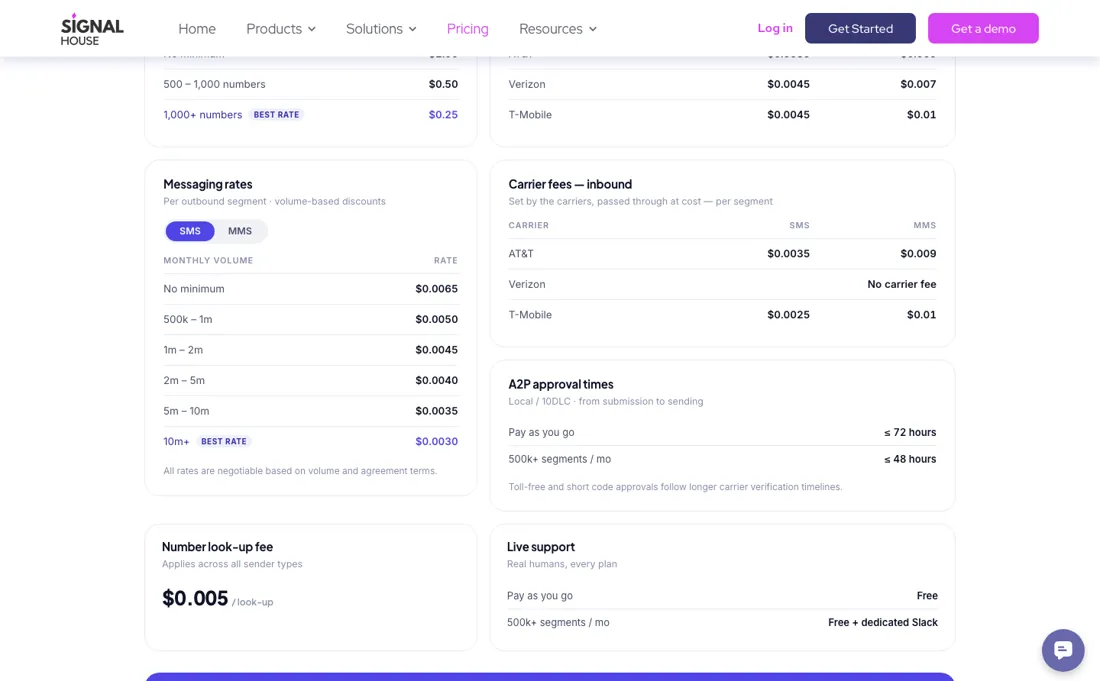
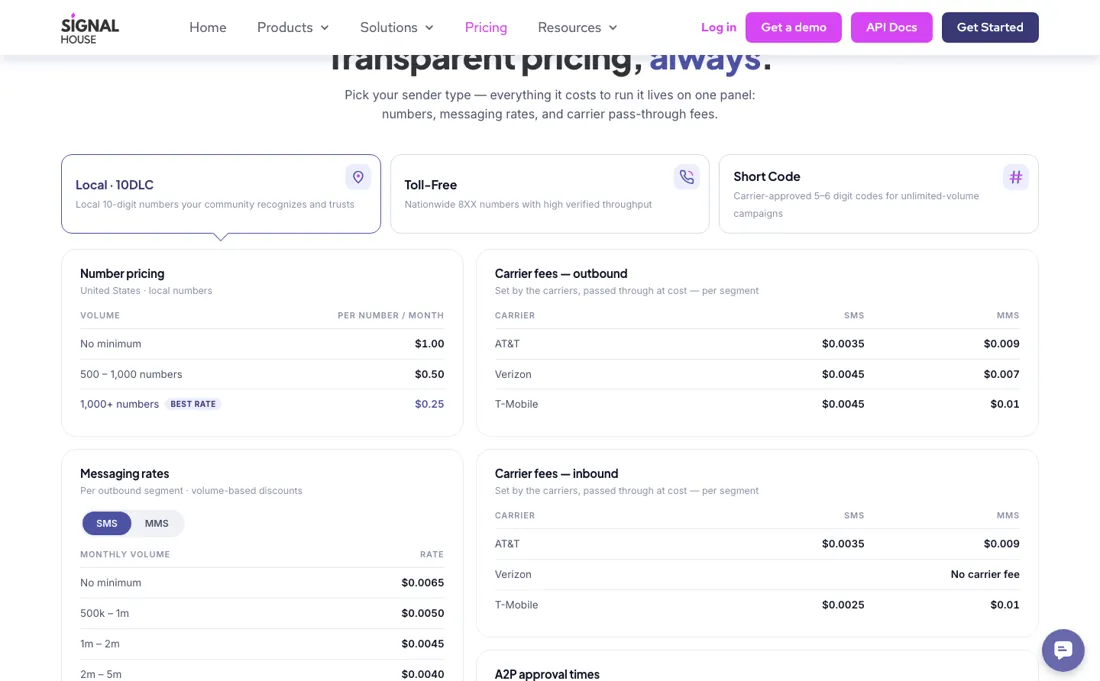
Daily sister refresh 2026-09-22: cards, blocks, nav, footer, links, sitemap

diff --git a/signal-house-review.html b/signal-house-review.html
@@ -123,7 +123,7 @@ nav.znav{display:block;padding:0;margin:0;height:auto;border:0;position:sticky;t
 @media(max-width:720px){.znav .in{height:54px;padding:0 14px;gap:12px}.znav .merk{font-size:1rem}
  .znav .links a{padding:7px 8px;font-size:.8rem}.znav .links a.cta{display:none}}
 </style><div class="in"><a class="merk" href="/"><i></i>ZeroTouch <em>Support</em></a><div class="links"><a href="/deals.html">Deals</a><a href="/guides.html">Guides</a><a href="/build-customer-support-system.html">Build a support system</a><a href="/tools/">Free tools</a><a href="/atlas.html">Atlas</a><a href="/price-watch.html">Price Watch</a><a href="/about.html">About</a><a href="/finder.html" class="cta">Tool Finder</a></div></div></nav>
-<script type="application/ld+json">{"@context": "https://schema.org", "@type": "Article", "headline": "Signal House Review (2026): 500 Numbers Cost Less Than 499", "datePublished": "2026-06-30", "dateModified": "2026-09-21", "author": {"@type": "Person", "@id": "https://aibuildermarketplace.com/about/#daan", "name": "Daniel Haket"}, "publisher": {"@type": "Organization", "name": "ZeroTouch Support"}}</script>
+<script type="application/ld+json">{"@context": "https://schema.org", "@type": "Article", "headline": "Signal House Review (2026): 500 Numbers Cost Less Than 499", "datePublished": "2026-06-30", "dateModified": "2026-09-22", "author": {"@type": "Person", "@id": "https://aibuildermarketplace.com/about/#daan", "name": "Daniel Haket"}, "publisher": {"@type": "Organization", "name": "ZeroTouch Support"}}</script>
 <script type="application/ld+json">{"@context": "https://schema.org", "@type": "SoftwareApplication", "name": "Signal House", "applicationCategory": "Communication & Voice", "operatingSystem": "Web", "description": "SMS and Voice API positioned as a Twilio alternative. Usage-based with no platform fee: $0.0065 per SMS segment with no minimum, down to $0.0030 above 10m, and $1.00 a month per local number. A2P 10DLC fees are published; voice rates are not.", "url": "https://zerotouchsupport.com/signal-house-review.html", "sameAs": "https://signalhouse.io", "review": {"@type": "Review", "url": "https://zerotouchsupport.com/signal-house-review.html", "author": {"@type": "Person", "name": "Daniel Haket", "@id": "https://aibuildermarketplace.com/about/#daan"}, "publisher": {"@type": "Organization", "name": "ZeroTouch Support"}}}</script>
 <script type="application/ld+json">{"@context": "https://schema.org", "@type": "FAQPage", "mainEntity": [{"@type": "Question", "name": "What should I weigh before buying Communication & Voice software?", "acceptedAnswer": {"@type": "Answer", "text": "Generally yes, since this category is built for it, but the details that bite are timezone handling, how per-seat cost scales as the team spreads, and whether numbers, routing or coverage exist in the countries your people actually sit in. Availability varies far more by country than the marketing pages suggest, so check your specific regions before committing."}}, {"@type": "Question", "name": "Is this a hands-on review of Signal House?", "acceptedAnswer": {"@type": "Answer", "text": "This is a researched assessment, not a hands-on test — where we've used a tool ourselves, we say so explicitly. We name what each tool is genuinely good and bad at, and we earn a commission only if you sign up, at no cost to you."}}]}</script>
 <script type="application/ld+json">{"@context": "https://schema.org", "@type": "BreadcrumbList", "itemListElement": [{"@type": "ListItem", "position": 1, "name": "Home", "item": "https://zerotouchsupport.com"}, {"@type": "ListItem", "position": 2, "name": "Reviews", "item": "https://zerotouchsupport.com/"}, {"@type": "ListItem", "position": 3, "name": "Signal House Review", "item": "https://zerotouchsupport.com/signal-house-review.html"}]}</script>
@@ -131,7 +131,7 @@ nav.znav{display:block;padding:0;margin:0;height:auto;border:0;position:sticky;t
 <div class="wrap">
 <div class="bc"><a href="/">ZeroTouch Support</a> &rsaquo; <a href="/">Reviews</a> &rsaquo; Signal House</div>
 <h1><span class="lg"><img src="https://www.google.com/s2/favicons?sz=128&amp;domain=signalhouse.io" alt="Signal House" loading="lazy" onerror="this.style.display='none'"></span>Signal House Review <span style="color:var(--muted);font-weight:700">(2026)</span><span style="display:block;font-size:.6em;color:var(--muted);font-weight:700;margin-top:6px">500 Numbers Cost Less Than 499</span></h1>
-<div class="meta"><span class="tag">Communication &amp; Voice</span><span>Researched assessment · by <a href="/about.html#daan">Daniel Haket</a></span><span>Updated 2026-09-21</span></div>
+<div class="meta"><span class="tag">Communication &amp; Voice</span><span>Researched assessment · by <a href="/about.html#daan">Daniel Haket</a></span><span>Updated 2026-09-22</span></div>
 <p class="lede">Two things are missing from a page that is otherwise unusually specific.</p>
 <div class="box best"><b>Best for:</b> teams sending real SMS volume in the US who already know what an A2P 10DLC campaign is and want a cheaper per-segment rate than Twilio’s list without giving up published pricing. The volume ladder is genuinely steep — from $0.0065 down to $0.0030 — so the case gets stronger the more you send, and the number discounts above 500 numbers suit anyone running many local presences.</div>
 <div class="box skip"><b>Who should skip it:</b> if you are mainly buying voice, because there is no published rate to compare and no way to model the cost. Skip it too if your volume is small: at a few thousand messages a month the per-segment saving against Twilio is a few dollars, and you would be trading a mature ecosystem and documentation for that. And if you are not already registered for A2P 10DLC, budget the brand and campaign fees plus the approval wait before you compare anything — those apply wherever you send from.</div>
@@ -144,7 +144,7 @@ nav.znav{display:block;padding:0;margin:0;height:auto;border:0;position:sticky;t
 <h2 id='pricing'>Pricing (2026)</h2><p style="margin:-4px 0 12px"><span style="display:inline-block;font-size:.72rem;letter-spacing:.06em;text-transform:uppercase;font-weight:800;color:#22c55e;border:1px solid rgba(34,197,94,.4);background:rgba(34,197,94,.08);border-radius:999px;padding:3px 11px">&#10003; Pricing re-verified 11 Sep 2026</span></p><p>(2026-09-11, re-read on their own pricing page) Usage-based, no platform subscription. SMS on a 10DLC local number costs $0.0065 per segment with no minimum, falling on volume: $0.0050 from 500k segments a month, $0.0045 from 1m, $0.0040 from 2m, $0.0035 from 5m and $0.0030 from 10m. Numbers are $1.00 a month, dropping to $0.50 between 500 and 1,000 numbers and $0.25 above 1,000.</p><p>MMS is $0.0200 per segment, $0.0170 above 500k. Toll-free numbers are $1.00 a month with SMS from $0.0079 down to $0.0050. Number lookup is $0.005. A2P 10DLC registration is billed separately: $4.50 for the brand, $15 one-time per campaign, then $1.50 a month for a low-volume campaign or $10 a month for a standard one. Carrier fees are passed through on top and are published per carrier for both directions: outbound SMS is AT&amp;T $0.0035, Verizon $0.0045, T-Mobile $0.0045 and US Cellular $0.0025, while outbound MMS costs two to three times as much — AT&amp;T $0.009, Verizon $0.007, T-Mobile $0.01, US Cellular $0.005.</p><p>Inbound SMS is AT&amp;T $0.0035, T-Mobile $0.0025, US Cellular $0.0025 and free on Verizon. A2P approval is quoted at 72 hours or less, dropping to 48 hours above 500k segments a month. Every rate table carries the note that all rates are negotiable on volume and agreement terms, and the site&#x27;s roadmap still lists Voice, Short Code, RCS and Alphanumeric as Coming Soon. <em>Plans change — always verify the live price on their site.</em></p>
 
 
-<h2 id="what-the-pricing-page-doesn-t-say">What the pricing page doesn’t say</h2><div class="receipt-block" style="display:flex;gap:18px;flex-wrap:wrap;margin:18px 0 26px;align-items:flex-start"><figure style="flex:1 1 340px;margin:0;min-width:0"><img src="/shots/signal-house-review/pricing-shot.webp" alt="Signal House pricing page" loading="lazy" style="width:100%;border:1px solid var(--border);border-radius:12px;display:block"><figcaption style="font-size:.8rem;color:var(--muted);margin-top:7px">Signal House’s own pricing page Aug 2026. Prices change &mdash; always check the live page.</figcaption></figure><div style="flex:1 1 300px;min-width:0;background:rgba(239,68,68,.06);border:1px solid rgba(239,68,68,.28);border-left:4px solid #ef4444;border-radius:12px;padding:17px 19px"><div style="font-size:.72rem;letter-spacing:.09em;text-transform:uppercase;color:#f87171;font-weight:800;margin-bottom:9px">The catch</div><p style="margin:0 0 11px;line-height:1.65">The first is voice. The product is sold as an SMS and Voice API and the pricing page publishes no voice rate at all — nor short code pricing. If the voice half is why you are looking, you cannot budget it from public information and will have to ask. The second is the arithmetic behind the Twilio comparison, which is the whole pitch. Take the entry rate with no minimum.</p><p style="margin:0 0 11px;line-height:1.65">Signal House is $0.0065 a segment against Twilio’s $0.0083, which reads as a 22% saving. But carrier fees are a pass-through and identical either way: add T-Mobile’s $0.0045 to both and you get $0.0110 against $0.0128 — about 14%, not 22%. Numbers narrow it further, $1.00 against $1.15. So the saving is real and it is worth having at volume, but it is a discount on the platform margin rather than on your bill, and the headline does not make that distinction.</p><p style="margin:0 0 11px;line-height:1.65">On a million segments a month that difference is roughly $1,800 a month against Twilio’s list — worth switching for, provided the voice side does not turn out to be where the money goes. Worth noting on the other side: Signal House prints its A2P 10DLC registration fees on the pricing page, and Twilio’s equivalent page says only that fees apply and points elsewhere. Being able to see the whole bill before you sign is not nothing.</p></div></div>
+<h2 id="what-the-pricing-page-doesn-t-say">What the pricing page doesn’t say</h2><div class="receipt-block" style="display:flex;gap:18px;flex-wrap:wrap;margin:18px 0 26px;align-items:flex-start"><figure style="flex:1 1 340px;margin:0;min-width:0"><img src="/shots/signal-house-review/pricing-shot.webp" alt="Signal House pricing page" loading="lazy" style="width:100%;border:1px solid var(--border);border-radius:12px;display:block"><figcaption style="font-size:.8rem;color:var(--muted);margin-top:7px">Signal House’s own pricing page Sep 2026. Prices change &mdash; always check the live page.</figcaption></figure><div style="flex:1 1 300px;min-width:0;background:rgba(239,68,68,.06);border:1px solid rgba(239,68,68,.28);border-left:4px solid #ef4444;border-radius:12px;padding:17px 19px"><div style="font-size:.72rem;letter-spacing:.09em;text-transform:uppercase;color:#f87171;font-weight:800;margin-bottom:9px">The catch</div><p style="margin:0 0 11px;line-height:1.65">The first is voice. The product is sold as an SMS and Voice API and the pricing page publishes no voice rate at all — nor short code pricing. If the voice half is why you are looking, you cannot budget it from public information and will have to ask. The second is the arithmetic behind the Twilio comparison, which is the whole pitch. Take the entry rate with no minimum.</p><p style="margin:0 0 11px;line-height:1.65">Signal House is $0.0065 a segment against Twilio’s $0.0083, which reads as a 22% saving. But carrier fees are a pass-through and identical either way: add T-Mobile’s $0.0045 to both and you get $0.0110 against $0.0128 — about 14%, not 22%. Numbers narrow it further, $1.00 against $1.15. So the saving is real and it is worth having at volume, but it is a discount on the platform margin rather than on your bill, and the headline does not make that distinction.</p><p style="margin:0 0 11px;line-height:1.65">On a million segments a month that difference is roughly $1,800 a month against Twilio’s list — worth switching for, provided the voice side does not turn out to be where the money goes. Worth noting on the other side: Signal House prints its A2P 10DLC registration fees on the pricing page, and Twilio’s equivalent page says only that fees apply and points elsewhere. Being able to see the whole bill before you sign is not nothing.</p></div></div>
 <h2 id="what-signal-house-does">What Signal House does</h2>
 <p>SMS and Voice API positioned as a Twilio alternative. Usage-based with no platform fee: $0.0065 per SMS segment with no minimum, down to $0.0030 above 10m, and $1.00 a month per local number. A2P 10DLC fees are published; voice rates are not.</p>
 <figure style="margin:16px 0"><img src="/shots/signal-house-review/product-shot.webp" alt="Signal House product" loading="lazy" style="width:100%;border:1px solid var(--border);border-radius:12px"><figcaption style="font-size:.82rem;color:var(--muted);margin-top:6px">Signal House, from their own site — for context, not a paid placement.</figcaption></figure>
